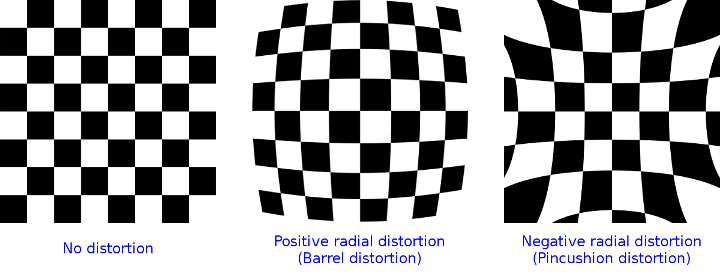
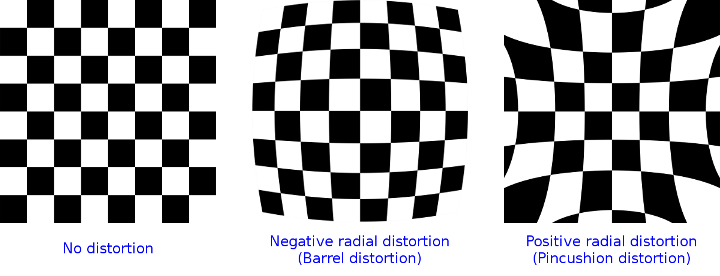
fix document about camera distortion parameters

Changed region(s): [[0.7028, 0.8406, 0.9778, 0.8986], [0.3667, 0.8406, 0.6417, 0.8986]]

diff --git a/modules/calib3d/include/opencv2/calib3d.hpp b/modules/calib3d/include/opencv2/calib3d.hpp
@@ -118,7 +118,7 @@ v = f_y*y'' + c_y
 tangential distortion coefficients. \f$s_1\f$, \f$s_2\f$, \f$s_3\f$, and \f$s_4\f$, are the thin prism distortion
 coefficients. Higher-order coefficients are not considered in OpenCV.
 
-The next figure shows two common types of radial distortion: barrel distortion (typically \f$ k_1 > 0 \f$) and pincushion distortion (typically \f$ k_1 < 0 \f$).
+The next figure shows two common types of radial distortion: barrel distortion (typically \f$ k_1 < 0 \f$) and pincushion distortion (typically \f$ k_1 > 0 \f$).
 
 ![](pics/distortion_examples.png)
 
